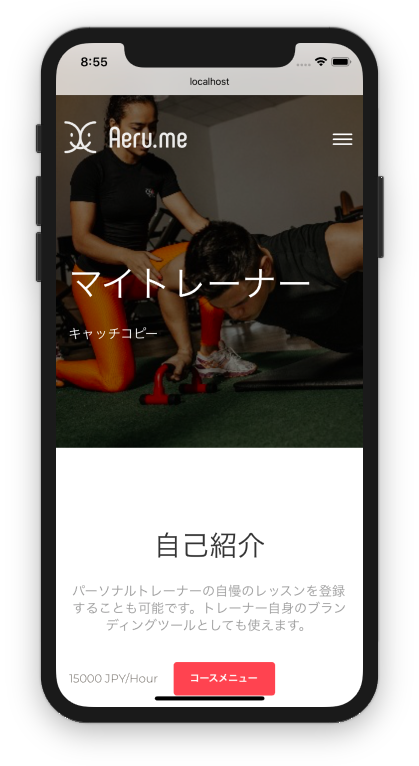
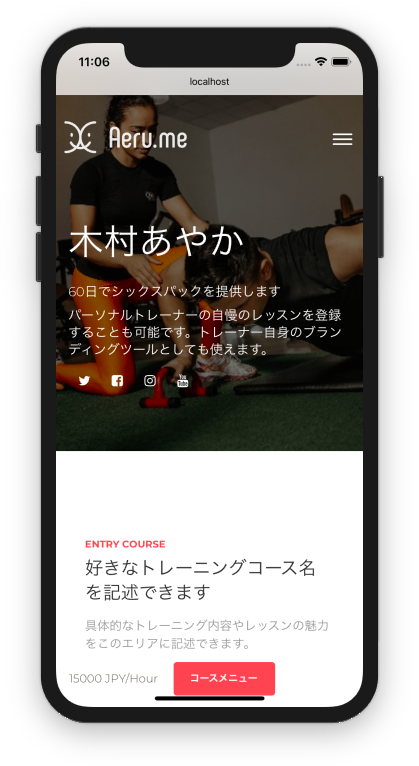
hotfix

diff --git a/src/app/rental/rental-detail/rental-detail.component.html b/src/app/rental/rental-detail/rental-detail.component.html
@@ -5,9 +5,42 @@
             <div class="container">
                 <div class="space-110"></div>
                 <div class="row">
-                    <div class="col-md-8 text-left motto">
+                    <div class="col-md-8 text-left">
                         <h1 class="title">{{ rental.rentalname }}</h1>
                         <h5>{{ rental.cardDescription }}</h5>
+                        <h5>{{ rental.description }}</h5>
+                    </div>
+                </div>
+                <div class="row">
+                    <div class="col-md-8 text-left">
+                        <div class="buttons">
+                            <a 
+                                *ngIf="rental.twitter" 
+                                href="{{ rental.twitter }}" 
+                                class="btn btn-neutral btn-link btn-just-icon"
+                                target="_blank"
+                                ><i class="fa fa-twitter"></i>
+                            </a>
+                            <a 
+                                *ngIf="rental.facebook" 
+                                href="{{ rental.facebook }}" 
+                                class="btn btn-neutral btn-link btn-just-icon"
+                                target="_blank"
+                                ><i class="fa fa-facebook-square"></i>
+                            </a>
+                            <a 
+                                *ngIf="rental.instagram" 
+                                href="{{ rental.instagram }}" 
+                                class="btn btn-neutral btn-link btn-just-icon"
+                                ><i class="fa fa-instagram"></i>
+                            </a>
+                            <a 
+                                *ngIf="rental.youtube" 
+                                href="{{ rental.youtube }}" 
+                                class="btn btn-neutral btn-link btn-just-icon"
+                                ><i class="fa fa-youtube"></i>
+                            </a>
+                        </div>
                     </div>
                 </div>
             </div>
@@ -15,32 +48,11 @@
     </div>
 
     <div class="wrapper">
-        <div class="section text-center">
-            <div class="container">
-                <div class="row">
-                    <div class="col-md-8 mr-auto ml-auto">
-                        <h2 class="title">自己紹介</h2>
-                        <h5 class="description">{{ rental.description }}</h5>
-                    </div>
-                </div>
-                <div class="row" *ngIf="rental.videoLink">
-                    <div class="col-md-5  ml-auto mr-auto">
-                        <div class="video-responsive">
-                            <iframe width="560" height="315" [src]="'https://www.youtube.com/embed/' + rental.videoLink | safe" frameborder="0" allow="accelerometer; autoplay; encrypted-media; gyroscope; picture-in-picture" allowfullscreen></iframe>
-                        </div>
-                    </div>
-                </div>
-            </div>
-        </div>
-
-        <!--     *********     Detail of lessons      *********      -->
         <div class="section" id="detail-of-lessons">
             <div class="blog-1">
                 <div class="container">
                     <div class="row">
                         <div class="col-md-10 ml-auto mr-auto">
-                            <h2 class="title text-center">コース内容</h2>
-                            <br />
                             <div class="card card-plain card-blog">
                                 <div class="row">
                                     <div class="col-md-8 col-11 ml-auto mr-auto">

diff --git a/src/app/rental/rental-edit/rental-edit.component.html b/src/app/rental/rental-edit/rental-edit.component.html
@@ -246,6 +246,16 @@
                       />
                 </div>
                 <div class="form-group">
+                    <h6>Twitter（任意）</h6>
+                    <input 
+                      type="text" 
+                      class="form-control border-input" 
+                      placeholder="TwitterURLが入力できます" 
+                      [(ngModel)]="rental.twitter" 
+                      name="twitter"
+                      />
+                </div>
+                <div class="form-group">
                     <h6>Instagram（任意）</h6>
                     <input 
                       type="text" 
@@ -256,15 +266,15 @@
                       />
                 </div>
                 <div class="form-group">
-                    <h6>Twitter（任意）</h6>
-                    <input 
-                      type="text" 
-                      class="form-control border-input" 
-                      placeholder="TwitterURLが入力できます" 
-                      [(ngModel)]="rental.twitter" 
-                      name="twitter"
-                      />
-                </div>
+                  <h6>Youtube（任意）</h6>
+                  <input 
+                    type="text" 
+                    class="form-control border-input" 
+                    placeholder="TwitterURLが入力できます" 
+                    [(ngModel)]="rental.youtube" 
+                    name="youtube"
+                    />
+              </div>
     
                 <div class="form-group">
                   <h6>提供サービス時給 <span class="icon-danger">*</span></h6>

diff --git a/src/app/auth/register/register.component.html b/src/app/auth/register/register.component.html
@@ -10,7 +10,7 @@
                             </div>
                             <div class="description">
                                 <h3> Verified Trainers </h3>
-                                <p>厳しい認証を突破した希少なパーソナルトレーナーがあなたの自己実現をサポートします.</p>
+                                <p>厳しい認証を突破した希少なトレーナーたちがあなたの自己実現をサポートします.</p>
                             </div>
                         </div>
                         <div class="info info-horizontal">
@@ -87,7 +87,7 @@
                                 <button [disabled]="!registerForm.valid" type="submit" class="btn btn-block btn-round btn-primary">メンバー登録する</button>
                             </form>
                             <div class="text-center">
-                                <button class="btn btn-link btn-primary" (click)="modalOpen()">ログインページはこちら</button>
+                                <button class="btn btn-link btn-primary" (click)="modalOpen()">ログインはこちら</button>
                             </div>
                         </div>
                     </div>

diff --git a/server/routes/controllers/models/rental.js b/server/routes/controllers/models/rental.js
@@ -20,6 +20,11 @@ const rentalSchema = new Schema({
         required: 'Emailは必須です',
         match: [/^\w+([\.-]?\w+)*@\w+([\.-]?\w+)*(\.\w{2,3})+$/]
     },
+    facebook: String,
+    instagram: String,
+    twitter: String,
+    youtube: String,
+    videoLink: String,
 
     birthday: Date,
     rentalname: { type: String, required: true, max: [128, '商品名は最大128文字までです']},
@@ -47,7 +52,6 @@ const rentalSchema = new Schema({
     gallery6: String,
     gallery7: String,
     gallery8: String,
-    videoLink: String,
 
 
     // Wanna be more simlpify menu below

diff --git a/src/app/auth/register/register.component.ts b/src/app/auth/register/register.component.ts
@@ -40,7 +40,6 @@ export class RegisterComponent implements OnInit, OnDestroy {
     let navbar = document.getElementsByTagName('nav')[0];
         navbar.classList.add('navbar-transparent');
 
-
     this.seeFBLoginState()
   }
   
@@ -83,6 +82,7 @@ export class RegisterComponent implements OnInit, OnDestroy {
   }
 
   modalOpen() {
+    this.router.navigate(['/'])
     this.modalService.open(LoginPupupTestComponent)
 }
 }

diff --git a/src/app/rental/service/rental.model.ts b/src/app/rental/service/rental.model.ts
@@ -14,8 +14,9 @@ export class Rental {
     lineworksURL: string;
     homepage: string;
     facebook: string;
-    instagram: string;
     twitter: string;
+    instagram: string;
+    youtube: string;
     selectedCategory: any[];
     
     rentalname: string;
